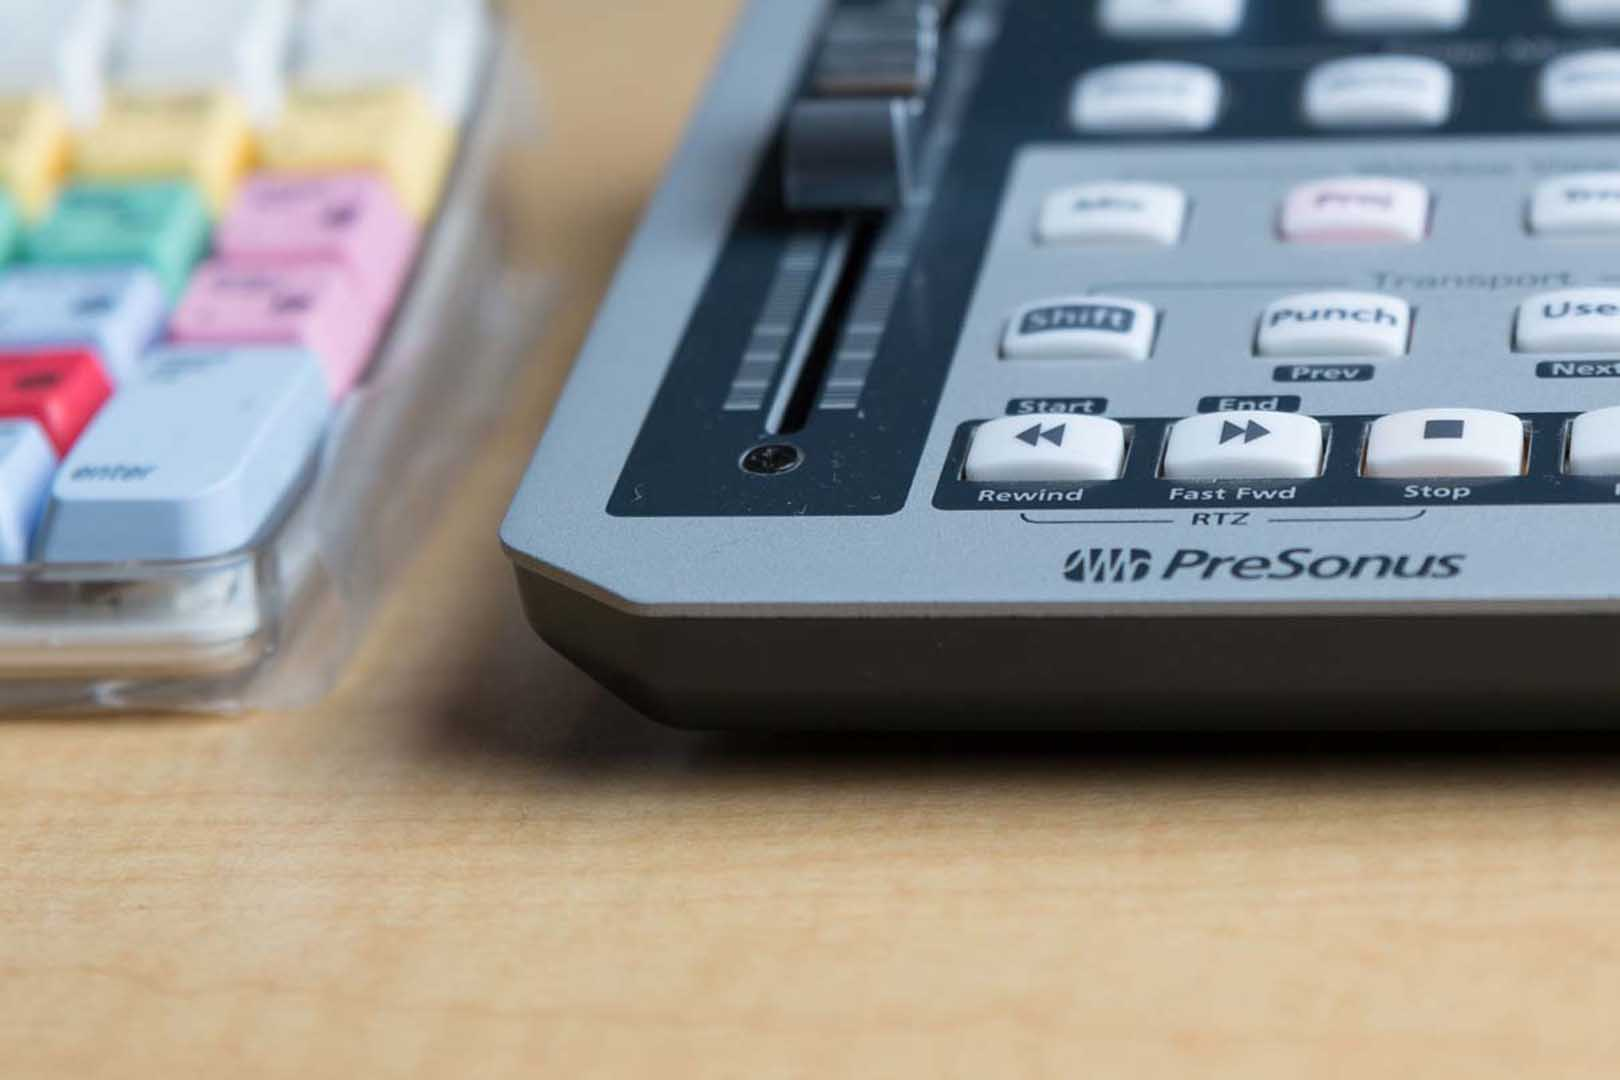
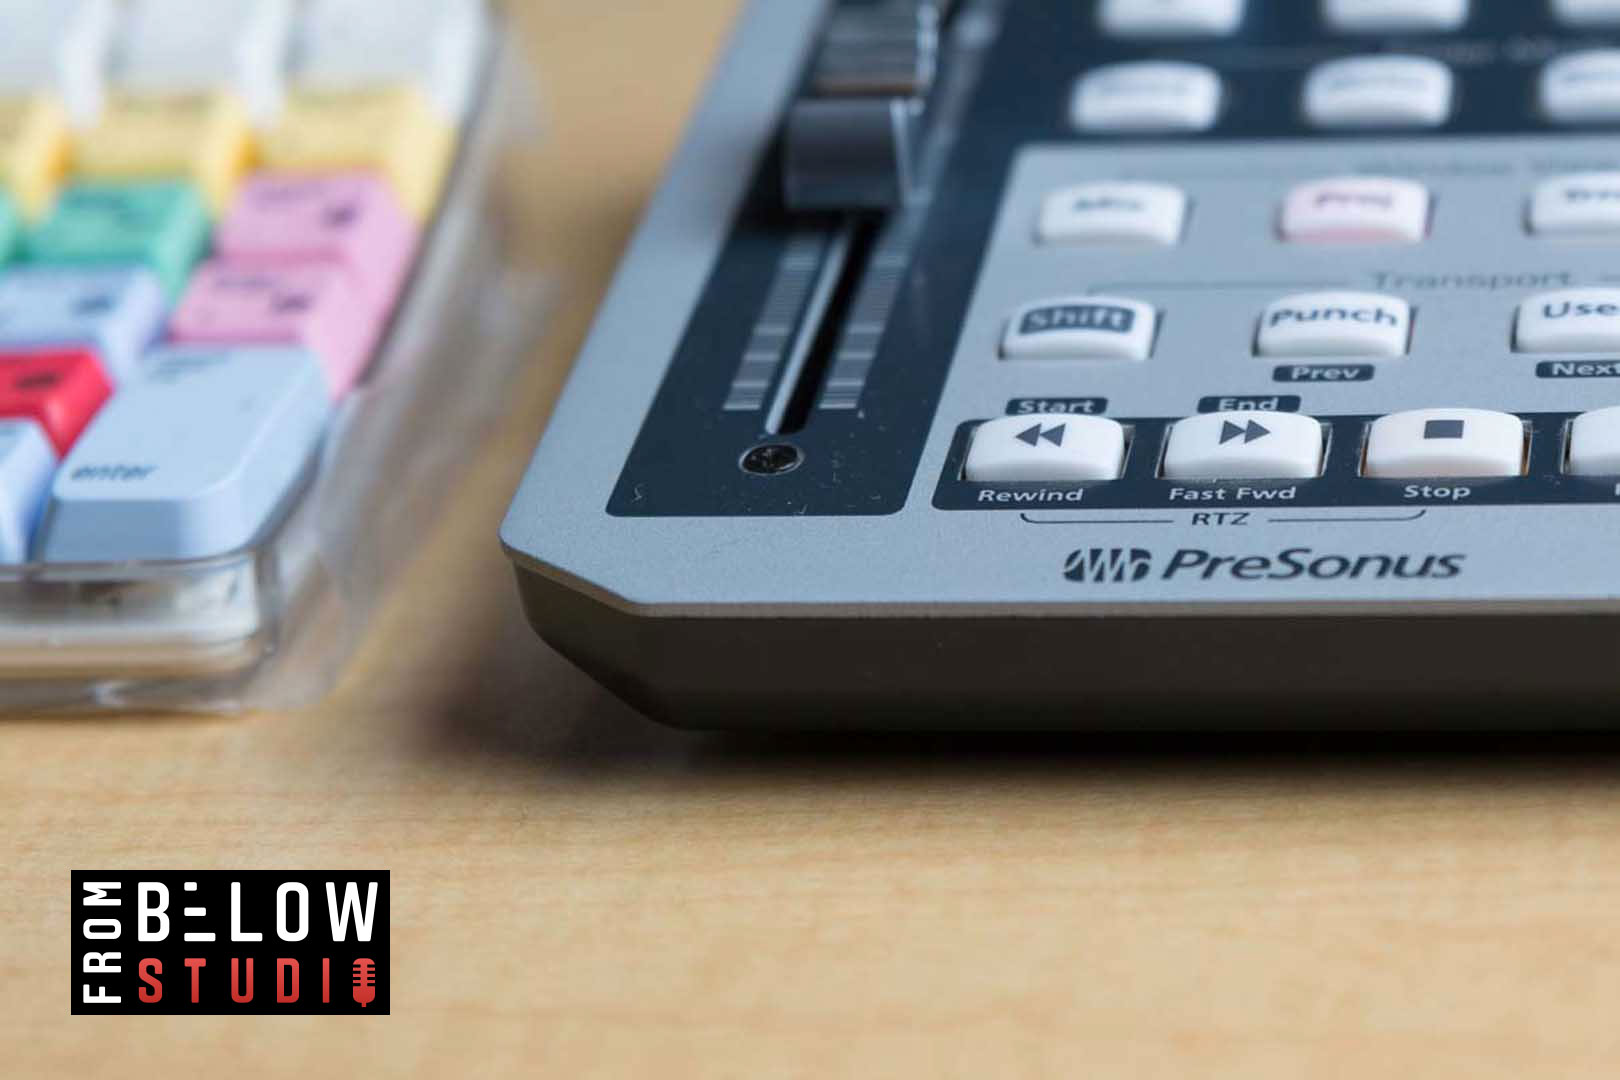
Updated Images and Copy

Changed region(s): [[0.0309, 0.7944, 0.2469, 0.9472]]

diff --git a/template-parts/content-page.php b/template-parts/content-page.php
@@ -59,51 +59,42 @@
           <h1 class="heading-17">RECORDING <span class="text-span-20">SERVICES</span></h1>
           <div class="div-block-30"></div>
           <p class="service-icon"></p>
-          <p class="list-item-4">From Below records songs, mixtapes, EP's, LP's for artists of multiple genres.</p>
+          <p class="list-item-4">From Below records songs, mixtapes, EP's and audiobooks for artists of multiple genres.</p>
           <p class="service-icon"></p>
-          <p class="list-item-4">Industry quality recording booth, microphones, outboard gear. Fits guitar, bass, keyboards, violin, brass and many instruments.</p>
+          <p class="list-item-4">Industry quality recording booth, microphone and outboard gear. Fits guitar, bass, keyboards and many other instruments.</p>
           <p class="service-icon"></p>
-          <p class="list-item-4">Mood lighting - set the tone of your session with Hue Lighting.</p>
+          <p class="list-item-4">Plug and play your laptop and setup to our interface.</p>
           <p class="service-icon"></p>
-          <p class="list-item-4"><span>Plug in your inputs/outputs in control room and booth. Bring your Laptop, Keyboards/Synth, XLR Cables, 1/4in. cables, Aux Cord. </span></p>
+          <p class="list-item-4"><span>Acoustic treated booth, control room, and waiting room with session live streamed on waiting room monitor.</span></p>
           <p class="service-icon"></p>
-          <p class="list-item-4">Sound treated booth, control room, and waiting area available.</p>
+          <p class="list-item-4">Comfortable and creative environment to work on your project.</p>
           <p class="service-icon"></p>
-          <p class="list-item-4">Seating area available. Relax and watch the session live on studio monitor.</p>
+          <p class="list-item-4">Access to your raw mix, tracks and project files upon request.</p>
           <p class="service-icon"></p>
-          <p class="list-item-4">Access to your bounces, tracks and project files.</p>
+          <p class="list-item-4">Free backup. Studio keeps files backed up for use and edit.</p>
           <p class="service-icon"></p>
-          <p class="list-item-4">Free Backup Studio keeps files backed up for use and edit.</p>
+          <p class="list-item-4">Multiple sessions, packages and recording blocks available.</p>
           <p class="service-icon"></p>
-          <p class="list-item-4">Multiple sessions and blocks available.</p>
-          <p class="service-icon"></p>
-          <p class="list-item-4">Charing ports available for USB/Android/iPhone.</p>
+          <p class="list-item-4">Private closed session (Each session is one on one with the Engineer).</p>
         </div>
         <div class="column-20 w-clearfix w-col w-col-6" data-ix="fade-up-mixing-service">
           <h1 class="heading-17">MIXING <span class="text-span-20">SERVICES</span></h1>
           <div class="div-block-30"></div>
           <p class="service-icon"></p>
-          <p class="list-item-4">Full mix down available for albums, mixtapes, podcasts, instrument solo's, drums and more.</p>
+          <p class="list-item-4">We offer full mix down available for your project including albums, EP’s, mixtapes, podcasts, instruments and more. </p>
           <p class="service-icon"></p>
-          <p class="list-item-4">2 track mix down available for&nbsp;vocals over instrumental beat.</p>
+          <p class="list-item-4">We mix all genres/styles of music as well as various job requests including podcast, audiobooks, commercials and more.</p>
           <p class="service-icon"></p>
-          <p class="list-item-4">Full mix down service with stems for a full and dynamic mix.</p>
+          <p class="list-item-4">Choose between 2 track mix for a quick reference or a full track out mix down for a professional and dynamic mix.</p>
           <p class="service-icon"></p>
-          <p class="list-item-4">Includes up to 3 revisions per song requested. More available on request.</p>
+          <p class="list-item-4">Includes up to 3 free revisions per song requested.</p>
           <p class="service-icon-micing"></p>
-          <p class="list-item-4">Mix leveling, signal monitoring/processing, ratio and threshold compression.</p>
+          <p class="list-item-4">Creative effect processing with industry standard plugins - Equalization, Compression and Dynamics, Reverb, Delay.</p>
           <p class="service-icon"></p>
-          <p class="list-item-4">Creative effect processing - Equalization, Compression and Dynamics, Reverb, Delay.</p>
-          <p class="service-icon"></p>
-          <p class="list-item-4">Industry standard RTAS/VST plug-ins, Pro Tools, UAD Powered Plug-Ins, Waves Collection and many more.</p>
-          <p class="service-icon"></p>
           <p class="list-item-4">Online mixing services available.</p>
-          <p class="service-icon"></p>
-          <p class="list-item-4">Custom edits upon request - create performance ready mixes, clip edits/fades/chops, looping, song layout and more.</p>
-          <p class="service-icon"></p>
-          <p class="list-item-4">16bit/24bit 44.1/48khz uncompressed high quality master bounce and stems.</p>
-          <p class="service-icon"></p>
-          <p class="list-item-4">Mixing sessions saved for free on computer and access to your files.</p>
+          <p class="service-icon"></p>
+          <p class="list-item-4">Custom edits upon request - create performance ready mixes, clip edits/fades/chops, looping and more.</p>
+          
         </div>
       </div>
     </div>
@@ -112,7 +103,7 @@
     <div class="pricing-bg-color" id="pricing-section"></div>
     <div class="fbs-container pricing-tablet-padding">
       <h1 class="heading-13">PRICING</h1>
-      <div class="text-block-13">Promotional pricing for recording and mixing packages. Single sessions and mixes available as well.</div>
+      <div class="text-block-13">Pricing for recording and mixing packages. Single sessions and mixes available as well.</div>
       <div class="tabs w-tabs" data-duration-in="300" data-duration-out="100">
         <div class="w-tab-menu">
           <a class="tab-link-2 w--current w-inline-block w-tab-link" data-w-tab="Tab 1">
@@ -127,42 +118,38 @@
         </div>
         <div class="tabs-content-2 w-tab-content">
           <div class="tab-pane w-tab-pane" data-w-tab="Tab 1">
-            <div class="text-block-30">Click left and right to see pricing options*</div>
+            <div class="text-block-30">Click/Swipe left and right to see pricing options*</div>
             <div class="mobile-pricing-slider w-slider" data-animation="slide" data-disable-swipe="1" data-duration="500" data-infinite="1">
               <div class="mask w-slider-mask">
                 <div class="slide-9 w-slide">
                   <ul class="recording-pricing-1 w-list-unstyled">
                     <li class="first-item-title list-item-2">Standard rate</li>
-                    <li class="item-pricing list-item-2">$35*<br><span class="text-span-7">per hour</span></li>
-                    <li class="list-item-2">Industry Quality Recording</li>
-                    <li class="list-item-2">Session Bounce</li>
-                    <li class="list-item-2">Rough Mix</li>
-                    <li class="list-item-2">Pro Tools Session</li>
+                    <li class="item-pricing list-item-2">$35*<br><span class="text-span-7">per hour/Recording Only</span></li>
                     <li class="list-item-2">*Minimum 2 Hours</li>
+                    <li class="list-item-2">Industry Quality Recording</li>
+                    <li class="list-item-2">Raw Mix Available</li>
                     <li class="last-item-button list-item-2"><span data-ix="contact-reveal" class="text-span-8">BOOK NOW</span></li>
                   </ul>
                 </div>
                 <div class="w-slide">
                   <ul class="recording-pricing-2-mobile w-list-unstyled">
-                    <li class="first-item-title list-item-2">Packages</li>
-                    <li class="item-pricing list-item-2">$170-$800*<br><span class="text-span-7">based on number of tracks</span></li>
-                    <li class="list-item-2">3 Tracks/$170</li>
-                    <li class="list-item-2">6 Tracks/$380</li>
-                    <li class="list-item-2">9 Tracks/$590</li>
-                    <li class="list-item-2">12 Tracks/$800</li>
-                    <li class="list-item-2">*Dedicated Studio Time</li>
+                    <li class="first-item-title list-item-2">Recording Blocks</li>
+                    <li class="item-pricing list-item-2">$130-$550*<br><span class="text-span-7">INCLUDES ROUGH REFERENCE MIX</span></li>
+                    <li class="list-item-2">4 Hours/$130</li>
+                    <li class="list-item-2">6 Hours/$200</li>
+                    <li class="list-item-2">8 Hours/$270</li>
+                    <li class="list-item-2">10 Hours/$340</li>
+                    <li class="list-item-2">Full Day 12+ Hours/$550</li>
                     <li class="last-item-button list-item-2"><span data-ix="contact-reveal" class="text-span-8">BOOK NOW</span></li>
                   </ul>
                 </div>
                 <div class="w-slide">
                   <ul class="recording-pricing-3-mobile w-list-unstyled">
-                    <li class="first-item-title list-item-2">Custom project</li>
-                    <li class="item-pricing list-item-2">Got a Budget?*<br><span class="text-span-9">*Pricing and service negotiable</span></li>
+                    <li class="first-item-title list-item-2">Custom Packages</li>
+                    <li class="item-pricing list-item-2">Customize*<br><span class="text-span-9">*Pricing Varies</span></li>
                     <li class="list-item-2">Please contact for more info.</li>
-                    <li class="list-item-2">Perfect for those with specific needs.</li>
-                    <li class="list-item-2">Voice Recording, Voice Overs &amp; more</li>
-                    <li class="list-item-2">Pricing for your project.</li>
-                    <li class="list-item-2">*Pricing and service negotiable.</li>
+                    <li class="list-item-2">Bundle packages based on customization.</li>
+                    <li class="list-item-2">*Pricing based on size of work.</li>
                     <li class="last-item-button list-item-2"><span data-ix="contact-reveal" class="text-span-8">BOOK NOW</span></li>
                   </ul>
                 </div>
@@ -180,22 +167,24 @@
               <li class="item-pricing list-item-2" data-ix="pricing-item-reveal">$35*<br><span class="text-span-7">*per hour/recording only</span></li>
               <li class="list-item-2" data-ix="pricing-item-reveal-5">*Minimum 2 Hours</li>
               <li class="list-item-2" data-ix="pricing-item-reveal-2">Industry Quality Recording</li>
-              <li class="list-item-2" data-ix="pricing-item-reveal-3">Session/Project Bounce</li>
+              <li class="list-item-2" data-ix="pricing-item-reveal-3">Raw Mix Available</li>
               <li class="last-item-button list-item-2" data-ix="pricing-item-reveal-6"><span data-ix="contact-reveal-3" class="text-span-8">BOOK NOW</span></li>
             </ul>
             <ul class="recording-pricing-2-desktop w-list-unstyled">
-              <li class="first-item-title list-item-2">Packages</li>
-              <li class="item-pricing list-item-2" data-ix="pricing-item-reveal">$170-$800*<br><span class="text-span-7">*includes rough reference mix</span></li>
-              <li class="list-item-2" data-ix="pricing-item-reveal-2">3 Hours/$170</li>
-              <li class="list-item-2" data-ix="pricing-item-reveal-3">6 Hours/$380</li>
-              <li class="list-item-2" data-ix="pricing-item-reveal-4">9 Hours/$590</li>
+              <li class="first-item-title list-item-2">Recording Blocks</li>
+              <li class="item-pricing list-item-2" data-ix="pricing-item-reveal">$130-$550*<br><span class="text-span-7">*includes rough reference mix</span></li>
+              <li class="list-item-2" data-ix="pricing-item-reveal-2">4 Hours/$130</li>
+              <li class="list-item-2" data-ix="pricing-item-reveal-3">6 Hours/$200</li>
+              <li class="list-item-2" data-ix="pricing-item-reveal-4">8 Hours/$270</li>
+              <li class="list-item-2" data-ix="pricing-item-reveal-4">10 Hours/$340</li>
+              <li class="list-item-2" data-ix="pricing-item-reveal-4">Full Day 12+ Hours/$550</li>
               <li class="last-item-button list-item-2" data-ix="pricing-item-reveal-6"><span data-ix="contact-reveal-3" class="text-span-8">BOOK NOW</span></li>
             </ul>
             <ul class="recording-pricing-3-desktop w-list-unstyled">
               <li class="first-item-title list-item-2">Custom project</li>
               <li class="item-pricing list-item-2" data-ix="pricing-item-reveal">Customize*<br><span class="text-span-7">*Pricing varies</span></li>
               <li class="list-item-2" data-ix="pricing-item-reveal-2">Please contact for more info.</li>
-              <li class="list-item-2" data-ix="pricing-item-reveal-4">Voice Recording, Voice Overs &amp; more</li>
+              <li class="list-item-2" data-ix="pricing-item-reveal-4">Bundle packages based on customization</li>
               <li class="list-item-2" data-ix="pricing-item-reveal-5">*Pricing based on size of work</li>
               <li class="last-item-button list-item-2" data-ix="pricing-item-reveal-6"><span data-ix="contact-reveal-3" class="text-span-8">BOOK NOW</span></li>
             </ul>
@@ -206,7 +195,7 @@
                 <div class="slide-9 w-slide">
                   <ul class="mixing-pricing-1-mobile w-list-unstyled">
                     <li class="first-item-title list-item-2">2 Track mix</li>
-                    <li class="item-pricing list-item-2">$70/Track<br><span class="text-span-9">*Revisions available</span></li>
+                    <li class="item-pricing list-item-2">$100/Track<br><span class="text-span-9">*Revisions available</span></li>
                     <li class="list-item-2">Sessions with Engineer</li>
                     <li class="list-item-2">Industry Quality Mix Down</li>
                     <li class="list-item-2">Session Bounces</li>
@@ -218,8 +207,8 @@
                 </div>
                 <div class="w-slide">
                   <ul class="mixing-pricing-2-mobile w-list-unstyled">
-                    <li class="first-item-title list-item-2">full stems mix</li>
-                    <li class="item-pricing list-item-2">$100/Track*<br><span class="text-span-9">*Revisions available</span></li>
+                    <li class="first-item-title list-item-2">Full Mix Down</li>
+                    <li class="item-pricing list-item-2">$200/Track*<br><span class="text-span-9">*Revisions available</span></li>
                     <li class="list-item-2">Sessions with Engineer</li>
                     <li class="list-item-2">Industry Quality Mix Down</li>
                     <li class="list-item-2">Session Bounces</li>
@@ -240,7 +229,7 @@
             </div>
             <ul class="mixing-pricing-1-desktop w-list-unstyled">
               <li class="first-item-title list-item-2">2 track mix down</li>
-              <li class="item-pricing list-item-2">$70/Song</li>
+              <li class="item-pricing list-item-2">$100/Song</li>
               <li class="list-item-2">Online Mixing Service Available</li>
               <li class="list-item-2">Industry Quality Mix Down</li>
               <li class="list-item-2">Session/Project Bounce</li>
@@ -248,8 +237,8 @@
               <li class="last-item-button list-item-2"><span data-ix="contact-reveal-3" class="text-span-8">CONTACT</span></li>
             </ul>
             <ul class="mixing-pricing-2-desktop w-list-unstyled">
-              <li class="first-item-title list-item-2">full stem mix down</li>
-              <li class="item-pricing list-item-2">$100/Song</li>
+              <li class="first-item-title list-item-2">Full Mix Down</li>
+              <li class="item-pricing list-item-2">$200/Song</li>
               <li class="list-item-2">Online Mixing Service Available</li>
               <li class="list-item-2">Industry Quality Mix Down</li>
               <li class="list-item-2">Session/Project Bounce</li>
@@ -285,7 +274,7 @@
     <div class="div-block-28"></div>
     <div class="fbs-container">
       <h3 class="heading-10-copy w-clearfix">ABOUT FROM BELOW <span class="text-span-24">STUDIO</span></h3>
-      <div class="text-block-9">From Below is a recording studio in Central New Jersey. It features two professionally sound treated rooms including; a control room for mixing, mastering and listening and a vocal and instrument booth. From Below offers Industry standard hardware, software and recording/mixing services. Available for live recording sessions, full albums/projects, mixing, online mixing and listening sessions. View our studio and gear below.</div>
+      <div class="text-block-9">From Below is a recording studio in Central New Jersey. Our goal is to provide our clients with a safe, creative and professional environment to create the ultimate sound experience. The studio features two professionally sound treated rooms including; a control room for mixing and a vocal booth for recording. We offer recording and mixing services for a wide range of genres, styles and commercial uses. The Engineer brings 10+ years of experience to the table with over 1,000 songs recorded and mixed. Available now for live recording sessions, full albums/projects, mixing, online mixing and listening sessions. View the studio and gear below.</div>
       <div class="about-us-row w-row">
         <div class="column-7 w-col w-col-6">
           <div data-delay="4000" data-animation="slide" data-autoplay="1" data-duration="500" data-infinite="1" class="slider-2 w-slider">
@@ -316,9 +305,9 @@
       "width": 1620,
       "caption": "Control room mixing desk",
       "height": 1080,
-      "fileName": "01-control-room-01.jpg",
-      "origFileName": "01-control-room-01.jpg",
-      "url": "<?php bloginfo('template_url');?>/images/01-control-room-01.jpg",
+      "fileName": "20170913_234303.jpg.jpg",
+      "origFileName": "20170913_234303.jpg",
+      "url": "<?php bloginfo('template_url');?>/images/20170913_234303.jpg",
       "_id": "5a0a38b15f389a000169d194",
       "type": "image",
       "fileSize": 147493
@@ -412,17 +401,6 @@
                             "_id": "5a0a43e5d345d400015dbae4",
                             "type": "image",
                             "fileSize": 112687
-                          },
-                          {
-                            "width": 720,
-                            "caption": "The recording booth is fully treated for the clearest sound quality. ",
-                            "height": 1080,
-                            "fileName": "mic-studio-long.jpg",
-                            "origFileName": "mic-studio-long.jpg",
-                            "url": "<?php bloginfo('template_url');?>/images/mic-studio-long.jpg",
-                            "_id": "5a0b15f7d65a2f0001be704b",
-                            "type": "image",
-                            "fileSize": 113774
                           }
                         ], 
                         "group": "From Below Studio and Gear"

diff --git a/header.php b/header.php
@@ -50,7 +50,7 @@
 	<div class="site-inner">
 		<div id="content" class="site-content">
 			  <div class="navbar-fbs-fixed w-nav" data-animation="default" data-collapse="medium" data-duration="400">
-    <div class="w-container"><a class="brand w-nav-brand" href="<?php echo $urlbuild;?>#hero"><img alt="From Below Studio - New Jersey Recording Studio and Mixing Services" class="fbs-logo-fixed" src="<?php bloginfo('template_url');?>/images/fbs-logo-demo.png" ></a>
+    <div class="w-container"><a class="brand w-nav-brand" href="<?php echo $urlbuild;?>#hero"><img alt="From Below Studio - New Jersey Recording Studio and Mixing Services" class="fbs-logo-fixed" src="<?php bloginfo('template_url');?>/images/fbs-red-logo.jpg" ></a>
       <nav class="nav-menu-2 w-nav-menu" role="navigation"><a class="nav-link w-nav-link" href="<?php echo $urlbuild;?>#hero">HOME</a><a class="nav-link w-nav-link" href="<?php echo $urlbuild;?>#service-section">SERVICES</a><a class="nav-link w-nav-link" href="<?php echo $urlbuild;?>#pricing-section">PRICING</a><a class="nav-link w-nav-link" href="<?php echo $urlbuild;?>#about">ABOUT</a><a class="nav-link w-nav-link" data-ix="contact-reveal" href="#">CONTACT</a><a class="nav-link w-nav-link" href="tel:609-469-4340">CALL: 609-469-4340</a>
       </nav>
       <div class="menu-button-2 w-nav-button">
@@ -60,7 +60,7 @@
   </div>
 
   <div class="navbar-fbs-static w-nav" data-animation="default" data-collapse="medium" data-duration="400" data-ix="navbar-init-load-reveal">
-    <div class="container w-container"><a class="w-nav-brand" href="<?php echo $urlbuild;?>#hero"><img alt="From Below Studio - New Jersey Recording Studio and Mixing Services" class="image" sizes="100px" src="<?php bloginfo('template_url');?>/images/fbs-logo-demo.png" ></a>
+    <div class="container w-container"><a class="w-nav-brand" href="<?php echo $urlbuild;?>#hero"><img alt="From Below Studio - New Jersey Recording Studio and Mixing Services" class="image" sizes="100px" src="<?php bloginfo('template_url');?>/images/fbs-red-logo.jpg" ></a>
       <nav class="nav-menu w-nav-menu" role="navigation"><a class="nav-link w-nav-link" href="<?php echo $urlbuild;?>#hero">HOME</a><a class="nav-link w-nav-link" href="<?php echo $urlbuild;?>#service-section">SERVICES</a><a class="nav-link w-nav-link" href="<?php echo $urlbuild;?>#pricing-section">PRICING</a><a class="nav-link w-nav-link" href="<?php echo $urlbuild;?>#about">ABOUT</a><a class="nav-link w-nav-link" data-ix="contact-reveal-3" href="#">CONTACT</a><a class="nav-link w-nav-link" href="tel:609-469-4340">CALL: 609-469-4340</a>
       </nav>
       <div class="menu-button w-nav-button">

diff --git a/footer.php b/footer.php
@@ -14,7 +14,7 @@
     <div class="fbs-container">
       
       <h1 class="heading-13">FOLLOW <a href="https://instagram.com/frombelowstudio" target="_blank" class="link-10">@FROMBELOWSTUDIO</a> ON INSTAGRAM</h1>
-      <div class="text-block-13">From Below Studio is a New Jersey based recording and mixing studio. We have special offers and promo codes and pricing on our Instagram feed. <span><a target="_blank" href="https://instagram.com/frombelowstudio" class="link-11">Follow here</a></span> to get the latest news and updates!</div>
+      
       <?php echo do_shortcode('[instagram-feed]');?>
     
     
